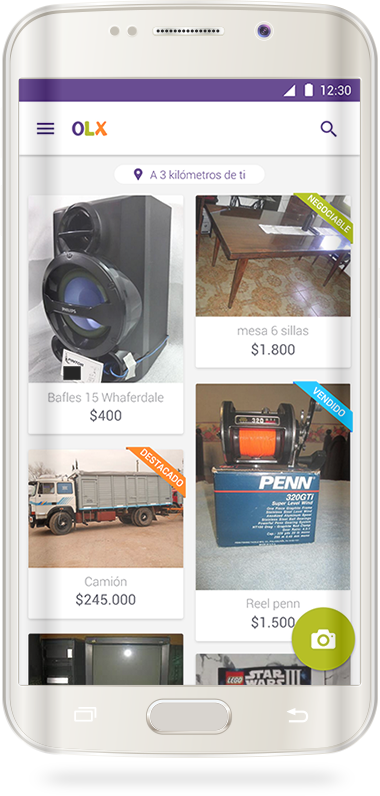
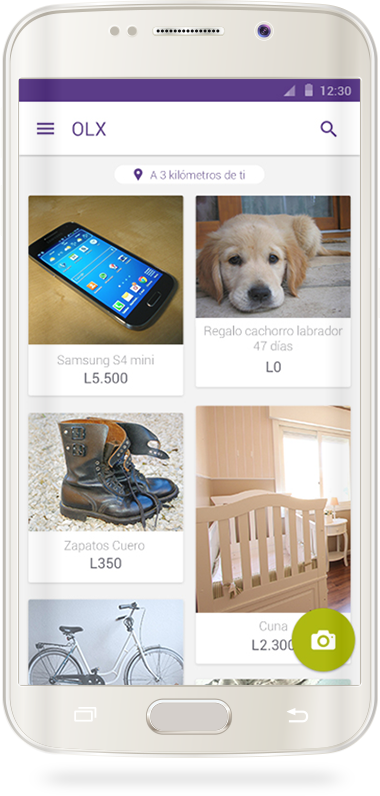
Added spanish texts and changed the images to the ones in the beta testers landing page

diff --git a/index.html b/index.html
@@ -15,6 +15,7 @@
     <link href="css/animate.css" rel="stylesheet" />
     <link href="css/general.css" rel="stylesheet" />
     <link href="css/landing.css" rel="stylesheet" />
+    <link rel="icon" href="img/favicon.ico" type="image/x-icon">
     <!-- HTML5 shim and Respond.js for IE8 support of HTML5 elements and media queries -->
     <!-- WARNING: Respond.js doesn't work if you view the page via file:// -->
     <!--[if lt IE 9]>
@@ -23,11 +24,11 @@
     <![endif]-->
 </head>
 
-<body>
-    <header class="navbar">
-        <div class="container">
-            <a class="brand animated fadeInLeft" href="home.html"><img src="img/olx-brand.png" alt="OLX" /></a>
-            <a class="google-play  animated fadeInRight" href="#"><img src="img/google-play.png" alt="Google Play Badge" /></a>
+<body id="page-top" data-spy="scroll" data-target=".navbar-fixed-top">
+    <header class="navbar" role="navigation">
+        <div class="container page-scroll">
+            <a class="brand animated fadeInLeft" href="#"><img src="img/olx-brand.png" alt="OLX" /></a>
+            <div class="google-play  animated fadeInRight" href="#"><img src="img/google-play.png" alt="Google Play Badge" /></div>
         </div>
     </header>
     <div id="wrapper">
@@ -35,8 +36,8 @@
             <div class="fluid-container section-one">
                 <div class="container">
                     <div class="title animated bounceInDown">
-                        <h1>buy and sell great stuff nearby</h1>
-                        <p>The fun and safe way to buy, sell and connect with your local community</p>
+                        <h1>Compra y vende<br>de todo<br>cerca de ti</h1>
+                        <p>El mercado de pulgas de tu comunidad,<br>ahora en tu móvil</p>
                         <a class="button animated bounceIn onlydesktop">Descargar la app</a>
                     </div>
                     <div class="smartphone animated fadeIn">
@@ -48,22 +49,22 @@
         <section>
             <div class="container section-two">
                 <ul>
-                    <li class="wow animated fadeIn">
+                    <li class="wow animated fadeIn first">
                         <img src="img/ic_deals.png" alt="deals" />
-                        <h2>Find great deals</h2>
-                        <p>Lorem ipsum dolor sit amet, con sectetuer adipiscing elit. Aenean commodo ligula eget dolor.</p>
+                        <h2>Gana dinero extra</h2>
+                        <p>Vende rápido, fácil y sin comisión eso que ya no usas. Publicar es gratis.</p>
                     </li>
                     <li class="onlymobile line">_____________</li>
-                    <li class="wow animated fadeIn">
+                    <li class="wow animated fadeIn second">
                         <img src="img/ic_connect.png" alt="deals" />
-                        <h2>Connect with your neighbours</h2>
-                        <p>Lorem ipsum dolor sit amet, con sectetuer adipiscing elit. Aenean commodo ligula eget dolor.</p>
+                        <h2>Fortalece tu comunidad</h2>
+                        <p>Contacta directamente a tu vecino y cierra el trato, todo queda en tu comunidad.</p>
                     </li>
                     <li class="onlymobile line">_____________</li>
-                    <li class="wow animated fadeIn">
+                    <li class="wow animated fadeIn third">
                         <img src="img/ic_cash.png" alt="deals" />
-                        <h2>Earn Extra Cash</h2>
-                        <p>Lorem ipsum dolor sit amet, con sectetuer adipiscing elit. Aenean commodo ligula eget dolor.</p>
+                        <h2>Descubre grandes ofertas</h2>
+                        <p>Obtén esos objetos que tus vecinos ya no usan, a precios increíbles.</p>
                     </li>
                 </ul>
             </div>
